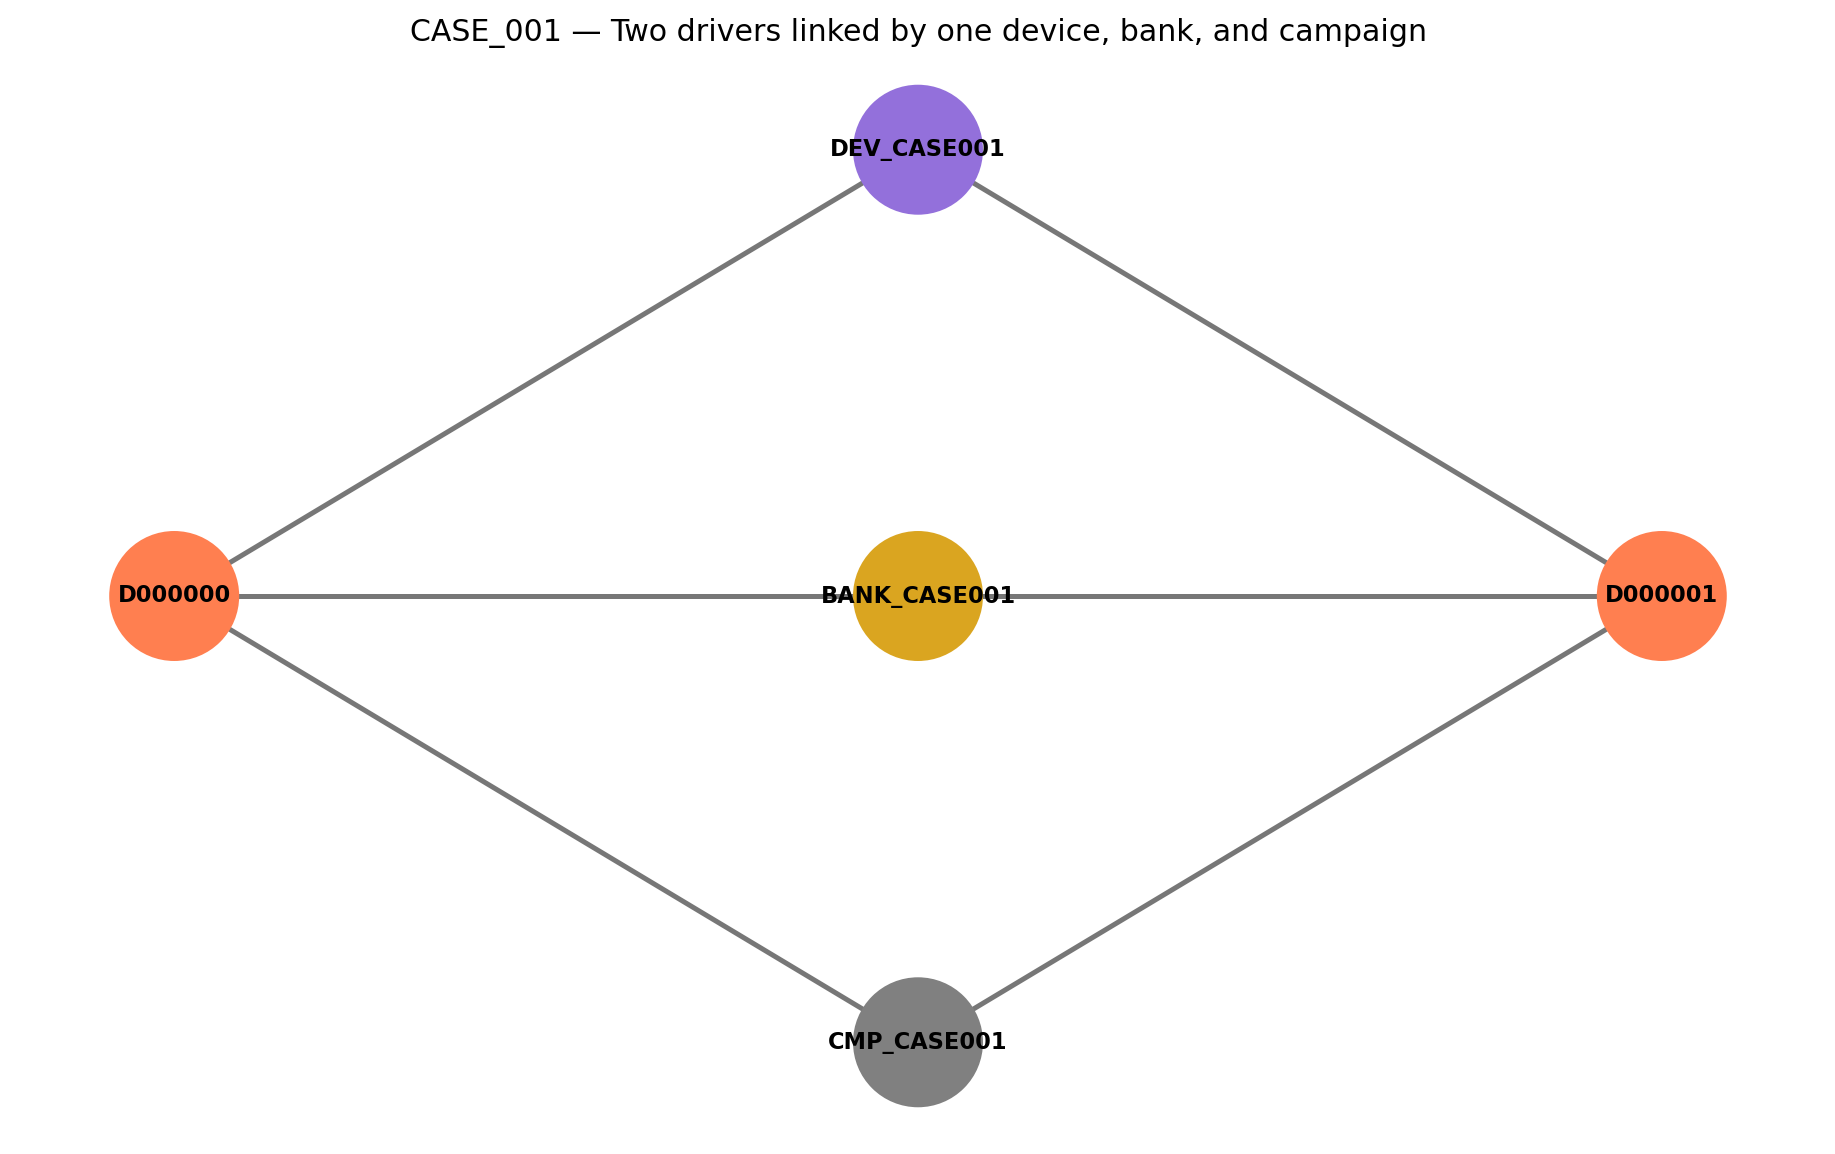
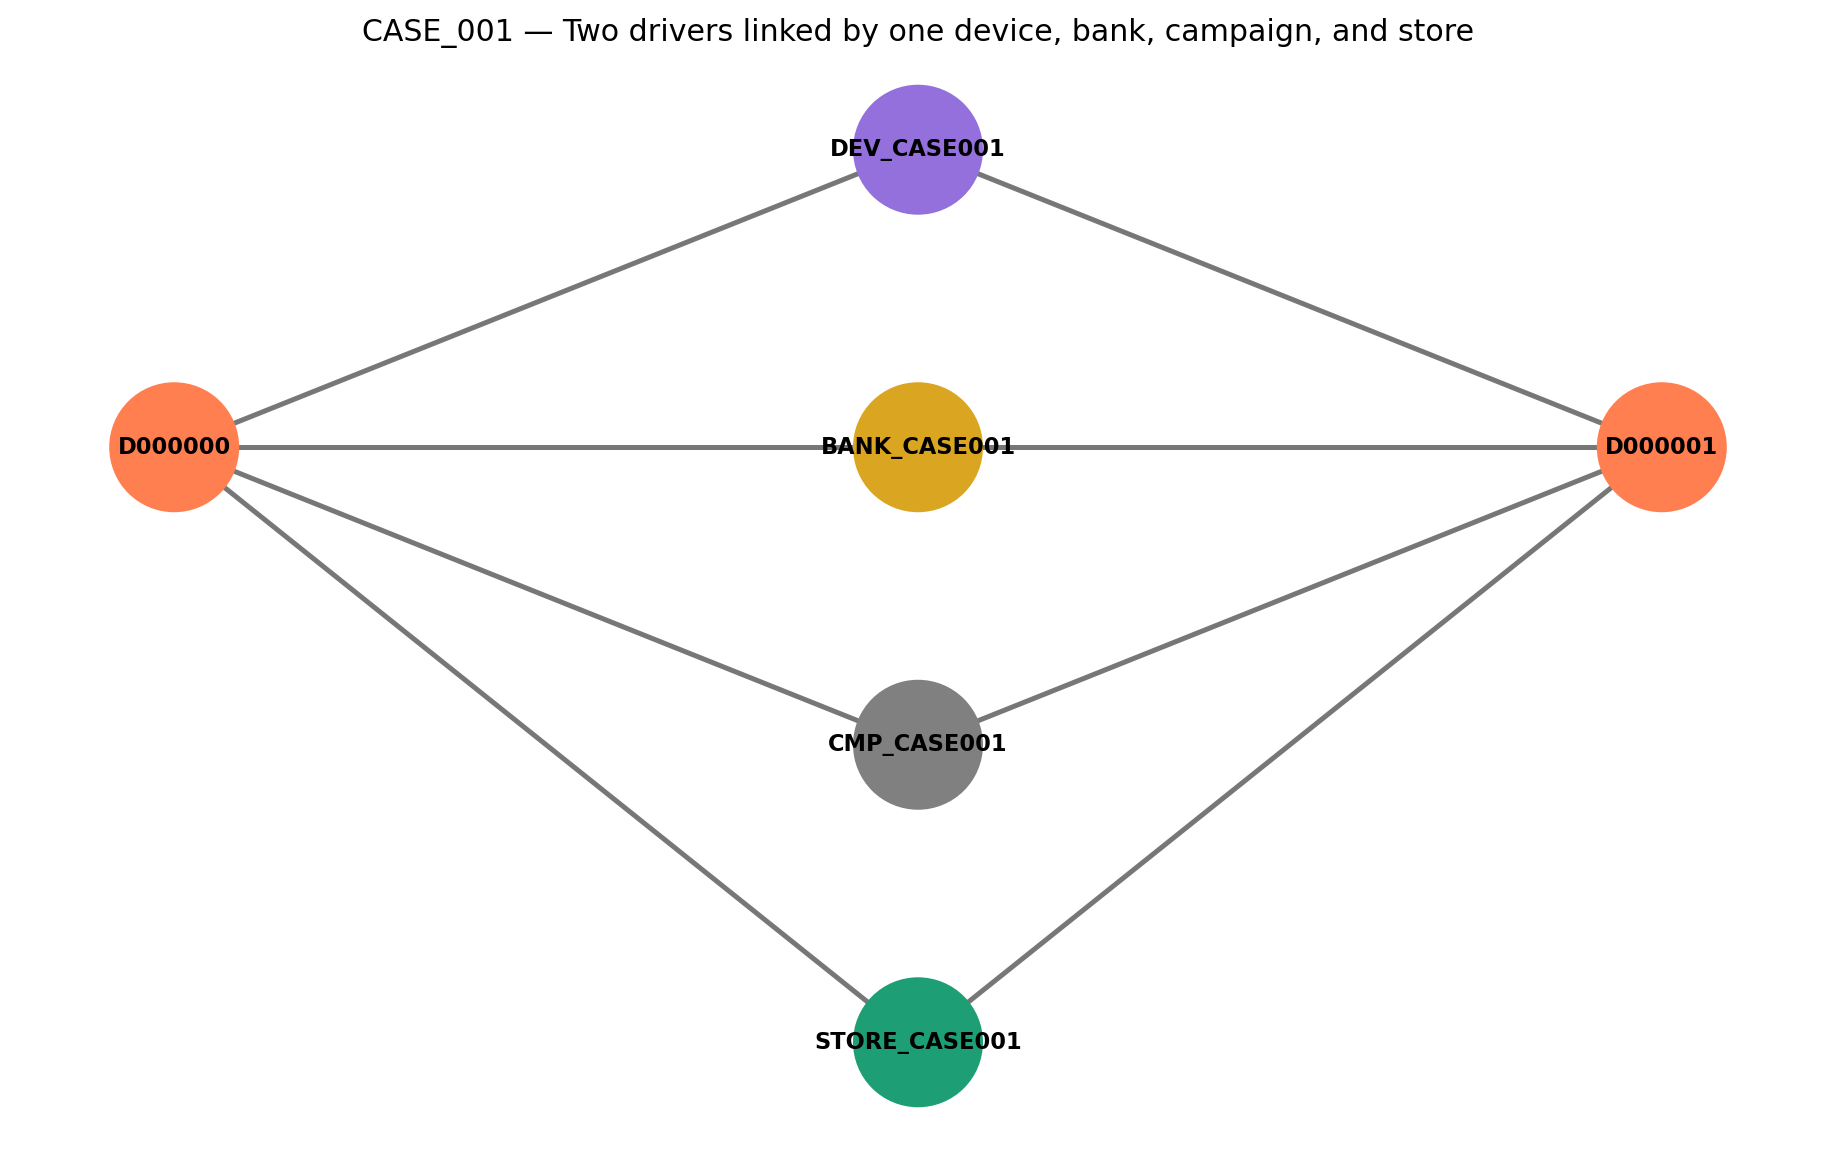
fix: reviewer-identified gaps — store graph node, IF docstring, XGB feature groups
Three targeted technical code-review fixes:

1. graph.py: add store_id nodes and driver-to-store DELIVERS_TO edges, include store_count and store_ids in ring output, and report node-type counts.
2. anomaly.py: document Isolation Forest contamination calibration, production recalibration, score semantics, and its role alongside XGBoost.
3. model.py: split the unchanged 26-feature matrix into labeled benchmark, telemetry, and behavioral groups with a production migration path.

Updates the executed CASE_001 notebook and README-visible graph image with the store node.

diff --git a/sentinel/graph.py b/sentinel/graph.py
@@ -16,26 +16,56 @@ def build_graph(min_ring_size: int = 3) -> pd.DataFrame:
         columns=["driver_id", "device_id", "payout_account", "ip_cluster", "store_id", "isFraud"],
     )
     G = nx.Graph()
-    for row in df.drop_duplicates(["driver_id", "device_id", "payout_account", "ip_cluster"]).itertuples():
+    for row in df.drop_duplicates(
+        ["driver_id", "device_id", "payout_account", "ip_cluster", "store_id"]
+    ).itertuples():
         driver = f"driver:{row.driver_id}"
         G.add_node(driver, kind="driver")
-        for kind, value in (("device", row.device_id), ("bank", row.payout_account), ("ip", row.ip_cluster)):
+        for kind, value, edge_type in (
+            ("device", row.device_id, "USES_DEVICE"),
+            ("bank", row.payout_account, "USES_PAYOUT"),
+            ("ip", row.ip_cluster, "USES_IP"),
+        ):
             entity = f"{kind}:{value}"
             G.add_node(entity, kind=kind)
-            G.add_edge(driver, entity)
+            G.add_edge(driver, entity, edge_type=edge_type)
+        # Store nodes expose store-level concentration and potential insider
+        # collusion, matching signal 16 and the cross-role risk view.
+        if pd.notna(row.store_id):
+            store = f"store:{row.store_id}"
+            G.add_node(store, kind="store")
+            G.add_edge(driver, store, edge_type="DELIVERS_TO")
     rings = []
     ring_id = 0
     for component in nx.connected_components(G):
         drivers = sorted(node.split(":", 1)[1] for node in component if node.startswith("driver:"))
         if len(drivers) < min_ring_size:
             continue
+        stores = sorted(node.split(":", 1)[1] for node in component if node.startswith("store:"))
         ring_id += 1
         for driver_id in drivers:
-            rings.append({"ring_id": f"R{ring_id:05d}", "driver_id": driver_id, "ring_size": len(drivers)})
-    result = pd.DataFrame(rings, columns=["ring_id", "driver_id", "ring_size"])
+            rings.append(
+                {
+                    "ring_id": f"R{ring_id:05d}",
+                    "driver_id": driver_id,
+                    "ring_size": len(drivers),
+                    "store_count": len(stores),
+                    "store_ids": ", ".join(stores),
+                }
+            )
+    result = pd.DataFrame(
+        rings, columns=["ring_id", "driver_id", "ring_size", "store_count", "store_ids"]
+    )
     result.to_csv(GRAPH / "fraud_rings.csv", index=False)
     nx.write_graphml(G, GRAPH / "entity_graph.graphml")
-    print(f"Graph: {G.number_of_nodes():,} nodes | {G.number_of_edges():,} edges | {ring_id:,} rings")
+    node_types: dict[str, int] = {}
+    for _, data in G.nodes(data=True):
+        node_type = data.get("kind", "unknown")
+        node_types[node_type] = node_types.get(node_type, 0) + 1
+    print(
+        f"Graph: {G.number_of_nodes():,} nodes ({node_types}) | "
+        f"{G.number_of_edges():,} edges | {ring_id:,} rings"
+    )
     return result
 
 
@@ -47,4 +77,3 @@ def get_ring_flags(driver_ids, graph_csv=None) -> pd.Series:
 
 if __name__ == "__main__":
     build_graph()
-

diff --git a/sentinel/model.py b/sentinel/model.py
@@ -14,14 +14,50 @@ from .anomaly import IsolationForestDetector, ensemble_score, risk_band_router
 from .config import MODELS, ensure_directories
 from .features import BEHAVIORAL_FEATURES, build_behavioral_features
 
+# XGBoost feature matrix: three groups with an explicit production migration path.
+#
+# Group A is the abstract IEEE-CIS benchmark surface. Remove it in production
+# and replace it with real processor transaction features.
+_FEAT_A = [
+    "TransactionAmt",
+    "dist1",
+    "C1",
+    "C2",
+    "C5",
+    "C13",
+    "D1",
+    "D10",
+    "V12",
+    "V53",
+    "V258",
+]
+
+# Group B is delivery telemetry. Retain the semantics in production while
+# replacing deterministic demo values with governed operational telemetry.
+_FEAT_B = [
+    "geofence_dist_m",
+    "emulator_flag",
+    "gps_mock_flag",
+    "rooted_device_flag",
+    "incentive_trip_count",
+    "refund_count_30d",
+    "payout_change_72h",
+    "off_hours_flag",
+    "trip_distance_km",
+    "trip_duration_min",
+]
+
+# Group C is data-source-agnostic behavioral segmentation. Retain the feature
+# logic and recalibrate peer/cohort baselines on representative operational data.
+_FEAT_C = list(BEHAVIORAL_FEATURES)
+
+XGB_FEATURES: list[str] = _FEAT_A + _FEAT_B + _FEAT_C
+
 
 class SentinelModel:
-    XGB_FEATURES = [
-        "TransactionAmt", "dist1", "C1", "C2", "C5", "C13", "D1", "D10", "V12", "V53", "V258",
-        "geofence_dist_m", "emulator_flag", "gps_mock_flag", "rooted_device_flag",
-        "incentive_trip_count", "refund_count_30d", "payout_change_72h", "off_hours_flag",
-        "trip_distance_km", "trip_duration_min",
-    ] + BEHAVIORAL_FEATURES
+    # Production migration: remove A, replace B values, retain C, retrain on
+    # sufficient labeled operational cases, then recalibrate IF contamination.
+    XGB_FEATURES = XGB_FEATURES
 
     def __init__(self, random_state: int = 42):
         self.random_state = random_state

diff --git a/sentinel/anomaly.py b/sentinel/anomaly.py
@@ -10,6 +10,28 @@ MAX_SQL_SIGNALS = 25
 
 
 class IsolationForestDetector:
+    """
+    Layer 2 anomaly detector for novel patterns not yet covered by SQL rules
+    (Layer 1) or the supervised model (Layer 3).
+
+    Contamination calibration:
+        The default 0.04 reflects the IEEE-CIS labeled fraud rate of about
+        3.5%, rounded up slightly for unlabeled borderline cases. In
+        production, recalibrate quarterly using:
+
+            confirmed_fraud_cases / total_drivers_scored
+
+        Keep the operating range between 0.01 (conservative) and 0.15
+        (aggressive). Contamination does not change the unsupervised patterns
+        the forest learns; it changes the decision boundary used to separate
+        normal observations from anomalies.
+
+    Why this layer exists:
+        XGBoost learns previously labeled fraud. Isolation Forest learns the
+        shape of normal behavior from the unlabeled population, preserving
+        coverage for emerging attacks with no rule or training label.
+    """
+
     def __init__(self, contamination: float = 0.04, random_state: int = 42):
         self.model = IsolationForest(contamination=contamination, random_state=random_state, n_jobs=-1)
         self.scaler = MinMaxScaler()
@@ -20,6 +42,14 @@ class IsolationForestDetector:
         return self
 
     def predict_score(self, features):
+        """
+        Return a normalized anomaly score in [0, 1].
+
+        Higher values are more anomalous and contribute more fraud risk. These
+        MinMax-scaled scores are relative rankings within the scored population,
+        not calibrated fraud probabilities. The ensemble therefore weights this
+        layer below XGBoost, whose output is produced by ``predict_proba``.
+        """
         raw = -self.model.score_samples(features)
         return self.scaler.transform(raw.reshape(-1, 1)).ravel().clip(0, 1)
 
